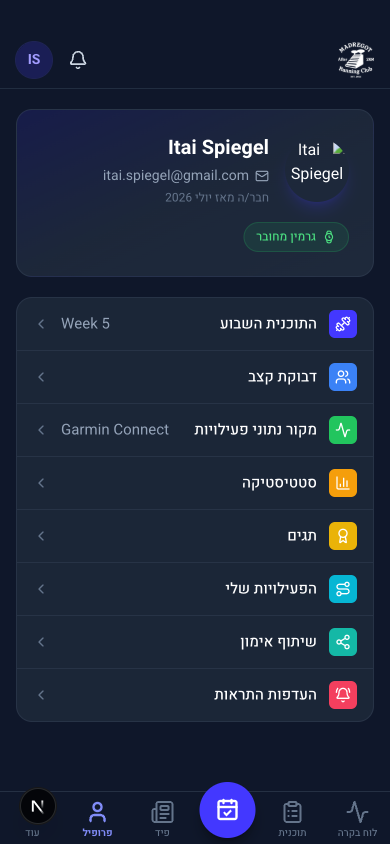
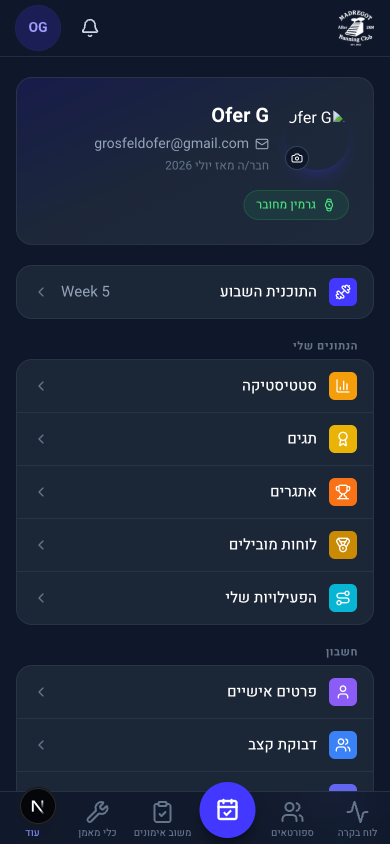
docs(app-map): capture real screenshots for missing/stale screens
Four screens added this session (Personal Info, Teammate Profile,
Challenges, Leaderboards) only ever showed the "no screenshot yet"
placeholder. Captured all four live, plus refreshed Feed/Notifications/
Settings/Profile's existing screenshots which predated this session's
changes (Personal Info move, Challenge Manager, 7 notification
categories, Profile's new rows).

Also fixes two description/path mismatches found while doing this:
the "Notifications" entry described the preferences screen (7
categories) but its path/screenshot is actually the notification
history feed — corrected the description to match. And the Personal
Info/Settings entries claimed Personal Info "moved" out of Settings
into Profile, but it's actually reachable from both — corrected to
not overstate it as a removal.

diff --git a/public/app-map.html b/public/app-map.html
@@ -141,14 +141,14 @@
         { label: 'תוכנית שבועית', desc: 'חדש · "המדרגות של השבוע" — כרטיס גיבור + מדרגה לכל יום לפי עצימות', old: 'program-old.png', new: 'program.png', path: '/dashboard/program' },
         { label: 'פיד', desc: 'לייקים, תגובות, שיתוף ריצה, Squad Battle ולוח מובילים שבועי', old: 'feed-old.png', new: 'feed.png', path: '/dashboard/feed' },
         { label: 'פרופיל', desc: 'עודכן · שורות: תוכנית השבוע, המספרים שלי (סטטיסטיקה/תגים/פעילויות), חשבון (פרטים אישיים/דבוקה/נעקבים/מקור נתונים/שיתוף/התראות)', old: 'profile-old.png', new: 'profile.png', path: '/dashboard/profile' },
-        { label: 'פרטים אישיים', desc: 'חדש · שם/תאריך לידה/מגדר/מידת נעל/מידת חולצה/טלפון — עבר מהגדרות (חסום לצוות בלבד) לפרופיל, כדי שכל ספורטאי יוכל בפועל להגיע אליו', path: '/dashboard/profile', badge: 'new-only' },
-        { label: 'פרופיל חבר / נעקבים', desc: 'חדש · מעקב א-סימטרי בסטייל Strava — פרופיל ציבורי לכל חבר קבוצה, רשימת נעקבים בפרופיל שלי', path: '/dashboard/teammate/[id]', badge: 'new-only' },
+        { label: 'פרטים אישיים', desc: 'חדש · שם/תאריך לידה/מגדר/מידת נעל/מידת חולצה/טלפון — נוסף גם לפרופיל (היה רק בהגדרות, חסום לצוות בלבד), כדי שכל ספורטאי יוכל בפועל להגיע אליו', new: 'personal-info.png', path: '/dashboard/profile', badge: 'new-only' },
+        { label: 'פרופיל חבר / נעקבים', desc: 'חדש · מעקב א-סימטרי בסטייל Strava — פרופיל ציבורי לכל חבר קבוצה, רשימת נעקבים בפרופיל שלי', new: 'teammate-profile.png', path: '/dashboard/teammate/[id]', badge: 'new-only' },
         { label: 'סטטיסטיקות', desc: 'בסטייל Strava/Garmin — שיאים, עקביות, נפח לפי שבוע', new: 'statistics.png', path: '/dashboard/profile', badge: 'new-only' },
-        { label: 'אתגרים', desc: 'חדש · אתגרים מוגבלי-זמן עם פס התקדמות חי (ק"מ/אימונים/טיפוס), מזכים בתג בסיום — אישי או קבוצתי', path: '/dashboard/profile', badge: 'new-only' },
-        { label: 'לוחות מובילים', desc: 'חדש · 5 קטגוריות (ק"מ שבועי/חודשי, רצף, אימונים, אירועים) + פילטר כולם/הדבוקה שלי ודירוג אישי — קודם היה רק טופ-3 בפיד', path: '/dashboard/profile', badge: 'new-only' },
+        { label: 'אתגרים', desc: 'חדש · אתגרים מוגבלי-זמן עם פס התקדמות חי (ק"מ/אימונים/טיפוס), מזכים בתג בסיום — אישי או קבוצתי', new: 'challenges.png', path: '/dashboard/profile', badge: 'new-only' },
+        { label: 'לוחות מובילים', desc: 'חדש · 5 קטגוריות (ק"מ שבועי/חודשי, רצף, אימונים, אירועים) + פילטר כולם/הדבוקה שלי ודירוג אישי — קודם היה רק טופ-3 בפיד', new: 'leaderboards.png', path: '/dashboard/profile', badge: 'new-only' },
         { label: 'הפעילויות שלי', desc: 'יומן ריצות מלא', old: 'activities-old.png', new: 'activities.png', path: '/dashboard/activities' },
         { label: 'לוח שנה', desc: 'כולל תצוגת מרוצים במפה, הרשמה עם תור המתנה/תפוסה', new: 'calendar.png', path: '/dashboard/calendar', badge: 'new-only' },
-        { label: 'התראות', desc: 'עודכן · 7 קטגוריות עם שליטה נפרדת (אימונים/מאמן/הישגים/תוכנית/חברי קבוצה/חדשות/אירועים)', old: 'notifications-old.png', new: 'notifications.png', path: '/dashboard/notifications' },
+        { label: 'התראות', desc: 'היסטוריית התראות שהתקבלו, עם פילטר לפי קטגוריה — ההעדפות (7 קטגוריות נפרדות) נמצאות בפרופיל', old: 'notifications-old.png', new: 'notifications.png', path: '/dashboard/notifications' },
         { label: 'משוב על האפליקציה', desc: 'ערוץ תקשורת ישיר עם הצוות', old: 'review-old.png', new: 'review.png', path: '/dashboard/review' },
       ],
     },
@@ -168,7 +168,7 @@
         { label: 'קבוצות', desc: 'SegmentedControl + Sheet לעריכה', old: 'groups-old.png', new: 'groups.png', path: '/dashboard/groups' },
         { label: 'אקדמיה', desc: 'רצועת קטגוריות גלילה + Sheet', old: 'academy-old.png', new: 'academy.png', path: '/dashboard/academy' },
         { label: 'נפח קבוצתי', desc: 'תובנות נפח ריצה לקבוצה', old: 'team-volume-old.png', new: 'team-volume.png', path: '/dashboard/team-volume' },
-        { label: 'הגדרות', desc: 'עודכן · חסום לצוות בלבד (מנהל) — פרטים אישיים עברו מכאן לפרופיל של הספורטאי; נשארו כאן ניהול משתמשים/הרשאות טאבים/משוב/תגים/אתגרים/התראות', old: 'settings-old.png', new: 'settings.png', path: '/dashboard/settings' },
+        { label: 'הגדרות', desc: 'עודכן · חסום לצוות בלבד (מנהל) — פרטים אישיים נגישים כאן וגם בפרופיל הספורטאי; ניהול משתמשים/הרשאות טאבים/משוב/תגים/אתגרים/התראות', old: 'settings-old.png', new: 'settings.png', path: '/dashboard/settings' },
       ],
     },
     {
